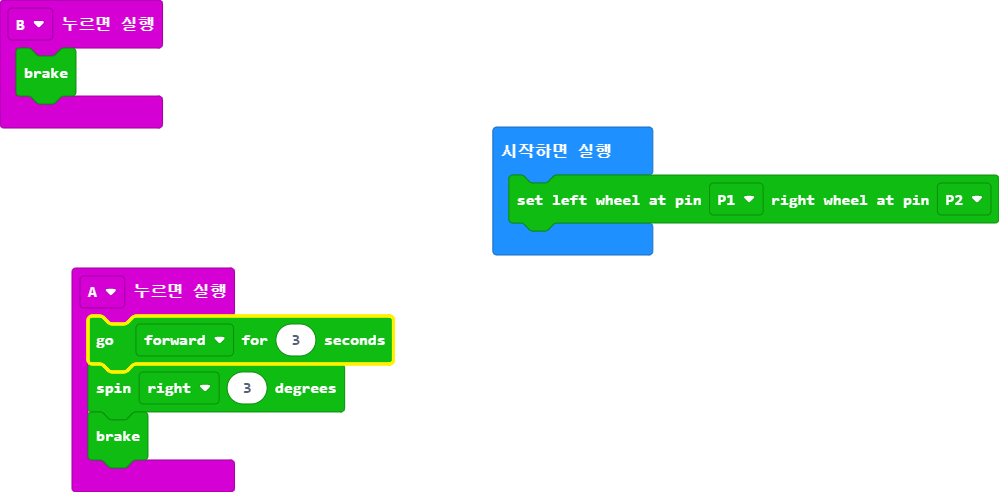
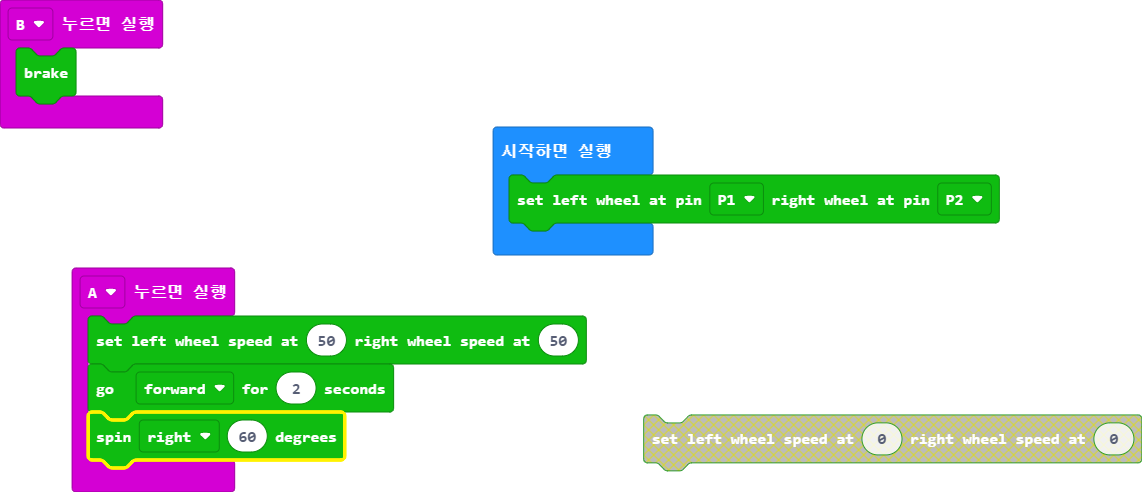
main.blocks, main.ts 업데이트하기

diff --git a/main.ts b/main.ts
@@ -1,7 +1,7 @@
 input.onButtonPressed(Button.A, function () {
-    RingbitCar.running_time(RingbitCar.Direction_run.forward, 3)
-    RingbitCar.steering_angle(RingbitCar.Direction_turn.right, 3)
-    RingbitCar.brake()
+    RingbitCar.freestyle(50, 50)
+    RingbitCar.running_time(RingbitCar.Direction_run.forward, 2)
+    RingbitCar.steering_angle(RingbitCar.Direction_turn.right, 60)
 })
 input.onButtonPressed(Button.B, function () {
     RingbitCar.brake()
